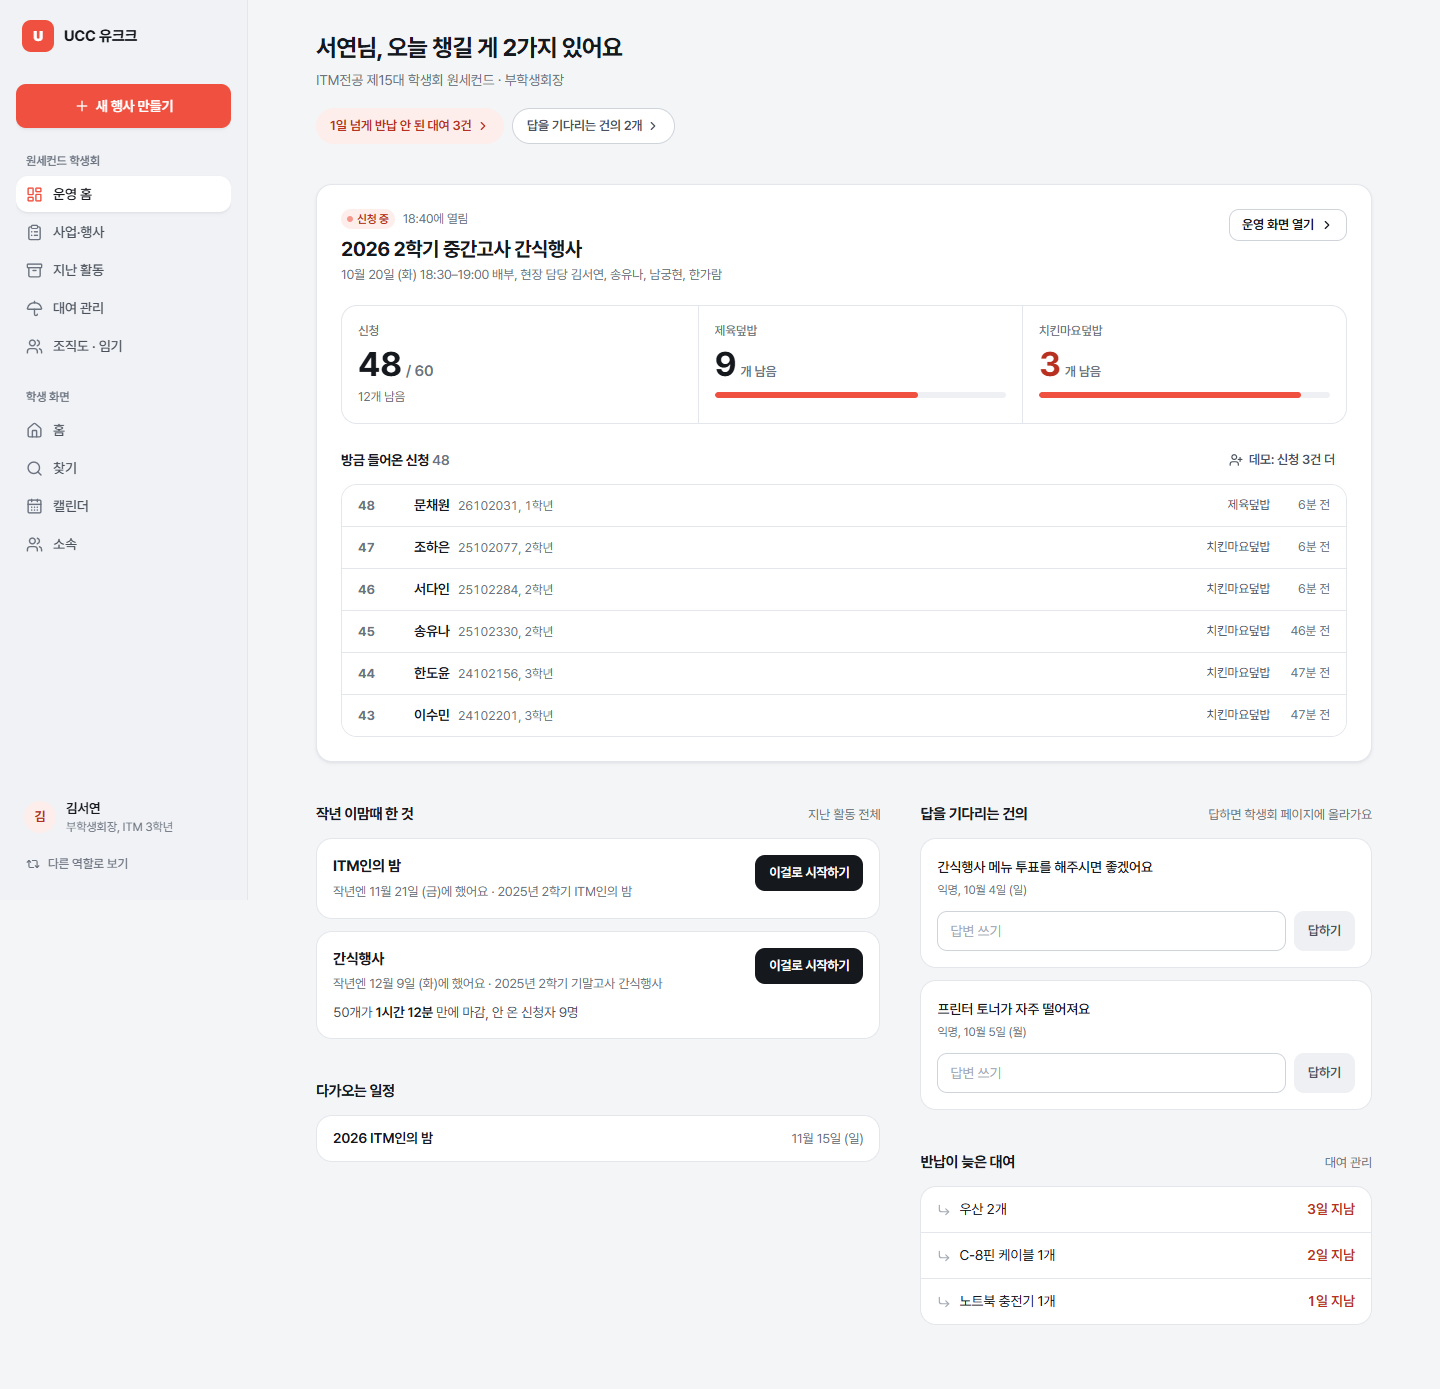
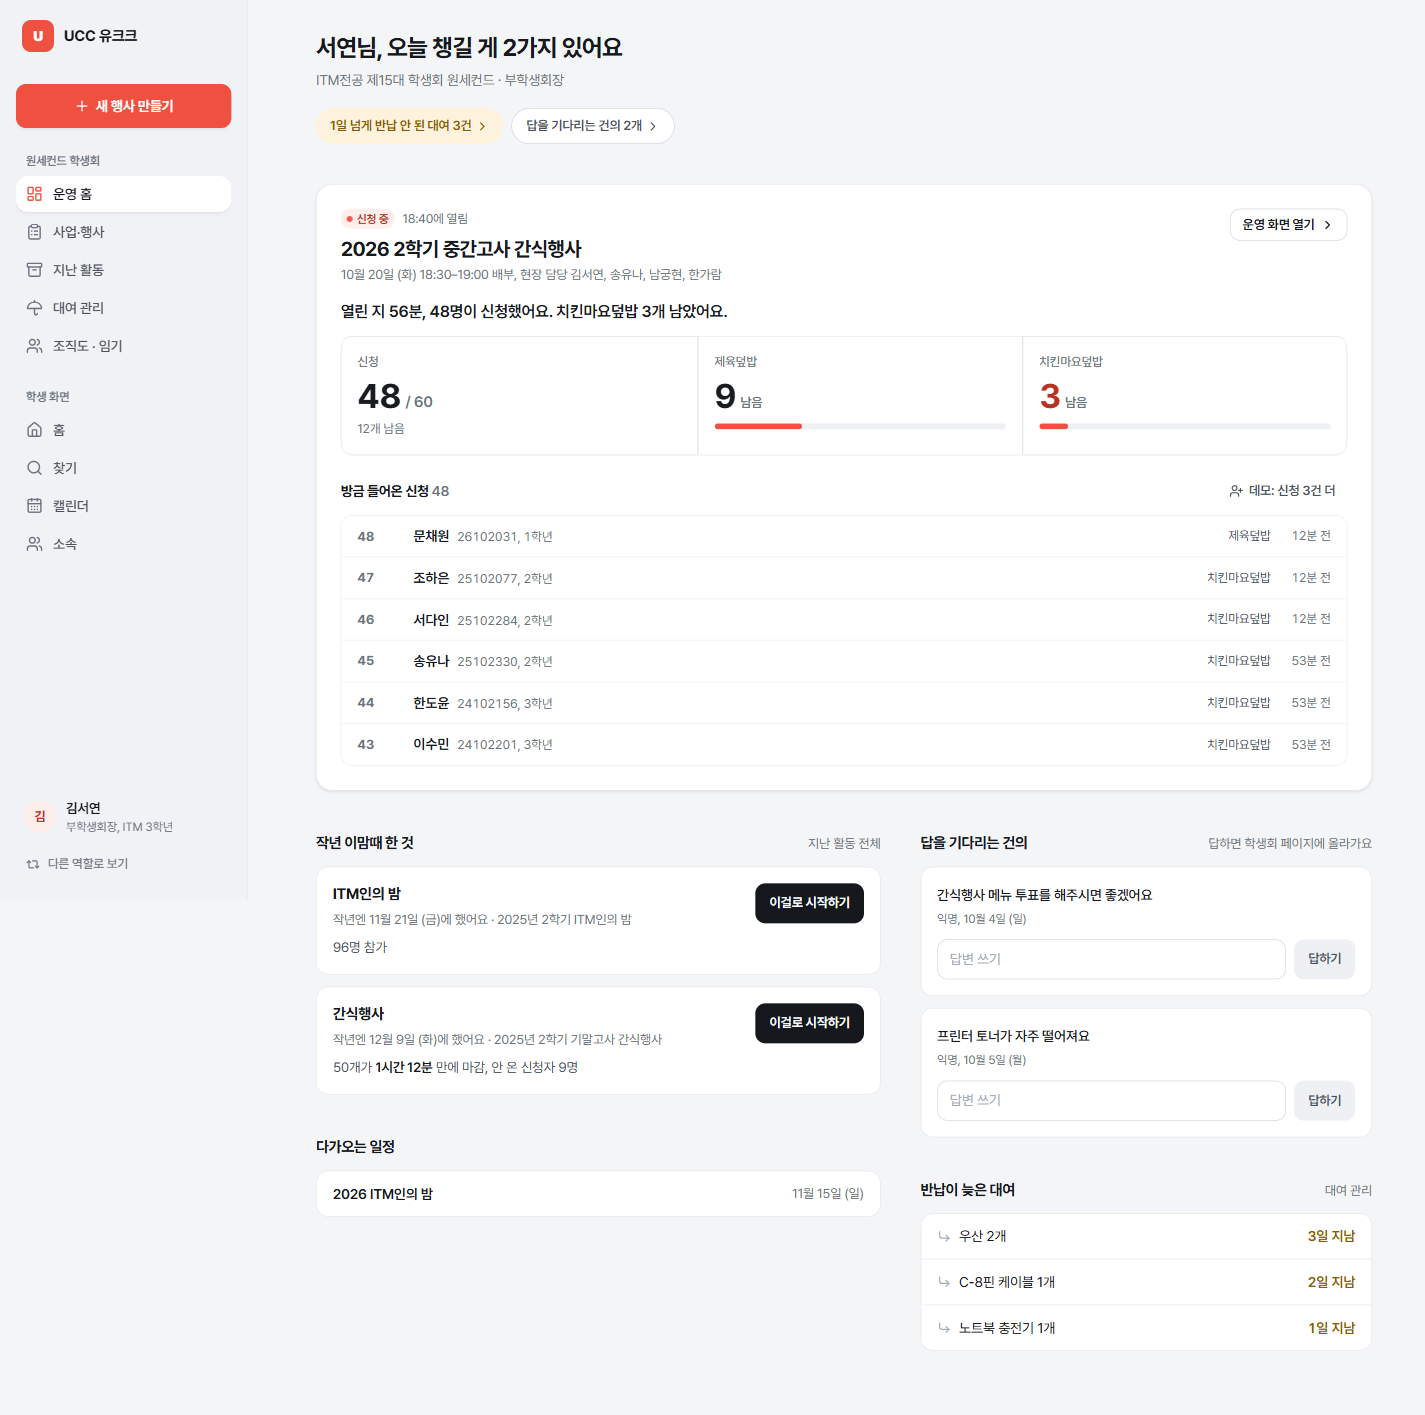
제목 위 라벨을 제목 아래로: 편집·신청·홈·기회 상세

diff --git a/src/app/(app)/events/[id]/apply-panel.tsx b/src/app/(app)/events/[id]/apply-panel.tsx
@@ -131,8 +131,8 @@ export function ApplyPanel({
     return (
       <Shell orgShort={orgShort}>
         <div className="rounded-2xl border border-line bg-surface p-5 shadow-sm md:p-7">
-          <p className="text-[13px] text-ink-3">{orgTitle}</p>
-          <h1 className="mt-1 text-[22px] leading-8 font-bold">{event.title}</h1>
+          <h1 className="text-[22px] leading-8 font-bold">{event.title}</h1>
+          <p className="mt-0.5 text-[13px] text-ink-3">{orgTitle}</p>
           <dl className="mt-5 grid grid-cols-[4.25rem_1fr] gap-x-3 gap-y-2 text-[14px] leading-6">
             <dt className="text-ink-3">언제</dt>
             <dd className="font-medium">{event.opens_at ? fmtDate(event.opens_at) : "날짜 미정"}</dd>
@@ -152,8 +152,8 @@ export function ApplyPanel({
   return (
     <Shell orgShort={orgShort}>
       <div className="rounded-2xl border border-line bg-surface p-5 shadow-sm md:p-7">
-        <p className="text-[13px] text-ink-3">{orgTitle}</p>
-        <h1 className="mt-1 text-[22px] leading-8 font-bold">{event.title}</h1>
+        <h1 className="text-[22px] leading-8 font-bold">{event.title}</h1>
+        <p className="mt-0.5 text-[13px] text-ink-3">{orgTitle}</p>
         {event.greeting ? <p className="mt-2 text-[14.5px] leading-6 text-ink-2">{event.greeting}</p> : null}
 
         {phase === "scheduled" ? (

diff --git a/src/app/(app)/manage/events/[id]/edit/event-form.tsx b/src/app/(app)/manage/events/[id]/edit/event-form.tsx
@@ -85,7 +85,6 @@ export function EventForm({ orgTitle, orgRoom, event, options, source, past, off
 
       <header className="flex flex-wrap items-end justify-between gap-4">
         <div className="min-w-0">
-          <p className="text-[13px] text-ink-3">{orgTitle}</p>
           <input
             aria-label="행사 이름"
             value={title}
@@ -95,9 +94,11 @@ export function EventForm({ orgTitle, orgRoom, event, options, source, past, off
           {source ? (
             <p className="mt-1.5 flex items-center gap-1.5 text-[13px] text-ink-3">
               <CornerDownLeft className="size-3.5" />
-              {source.title}에서 가져왔어요. 회색 글씨는 지난번 값 그대로예요.
+              {orgTitle} · {source.title}에서 가져왔어요. 회색 글씨는 지난번 값 그대로예요.
             </p>
-          ) : null}
+          ) : (
+            <p className="mt-1.5 text-[13px] text-ink-3">{orgTitle}</p>
+          )}
         </div>
         <Badge tone={blanks.length ? "coral" : "green"}>{blanks.length ? `채울 칸 ${blanks.length}` : "다 채웠어요"}</Badge>
       </header>

diff --git a/src/app/(app)/find/[id]/page.tsx b/src/app/(app)/find/[id]/page.tsx
@@ -34,12 +34,12 @@ export default async function OpportunityPage({ params }: PageProps<"/find/[id]"
       </Link>
 
       <article className="rounded-2xl border border-line bg-surface p-5 shadow-sm md:p-7">
-        <div className="flex flex-wrap items-center gap-1.5 text-[12.5px] text-ink-3">
+        <h1 className="text-[22px] leading-8 font-bold">{o.title}</h1>
+        <div className="mt-1.5 flex flex-wrap items-center gap-1.5 text-[12.5px] text-ink-3">
           <span>{o.source}</span>
           {o.department_id && o.department_id !== profile.department_id ? <Badge>다른 학과</Badge> : null}
           {o.epic_points ? <Badge tone={counts ? "green" : "neutral"}>EPiC {o.epic_points}점</Badge> : null}
         </div>
-        <h1 className="mt-2 text-[22px] leading-8 font-bold">{o.title}</h1>
         <p className="mt-2 text-[14.5px] leading-6 text-ink-2">{o.summary}</p>
 
         <section className={ok ? "mt-5 rounded-xl bg-green-tint p-4" : "mt-5 rounded-xl bg-surface-2 p-4"}>

diff --git a/src/app/(app)/home/page.tsx b/src/app/(app)/home/page.tsx
@@ -39,10 +39,10 @@ export default async function Home() {
     <div className="grid gap-10 lg:grid-cols-[1fr_340px]">
       <div className="min-w-0 space-y-10">
         <header>
-          <p className="text-[13px] text-ink-3">
+          <h1 className="text-[22px] leading-8 font-bold md:text-2xl">{profile.name.slice(1)}님의 이번 주</h1>
+          <p className="mt-0.5 text-[13px] text-ink-3">
             {department.name} {profile.grade}학년
           </p>
-          <h1 className="mt-0.5 text-[22px] leading-8 font-bold md:text-2xl">{profile.name.slice(1)}님의 이번 주</h1>
         </header>
 
         <section>
